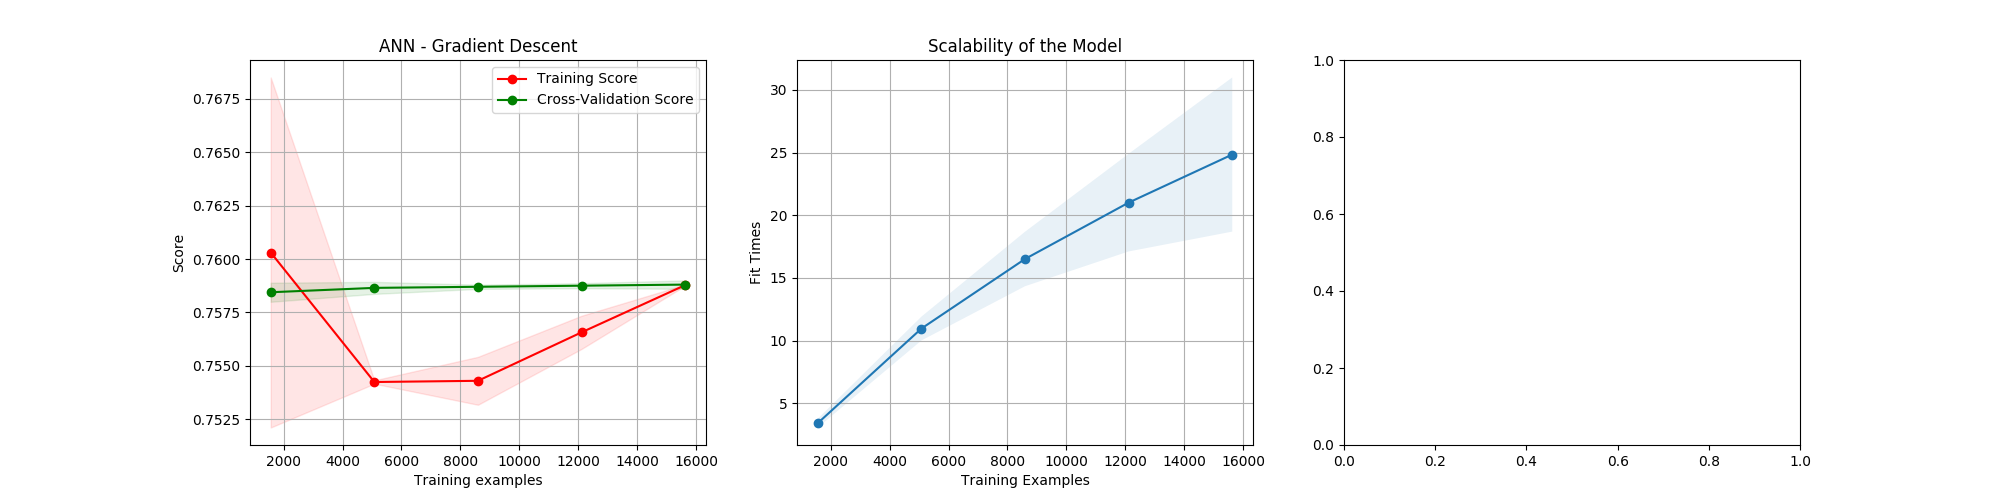
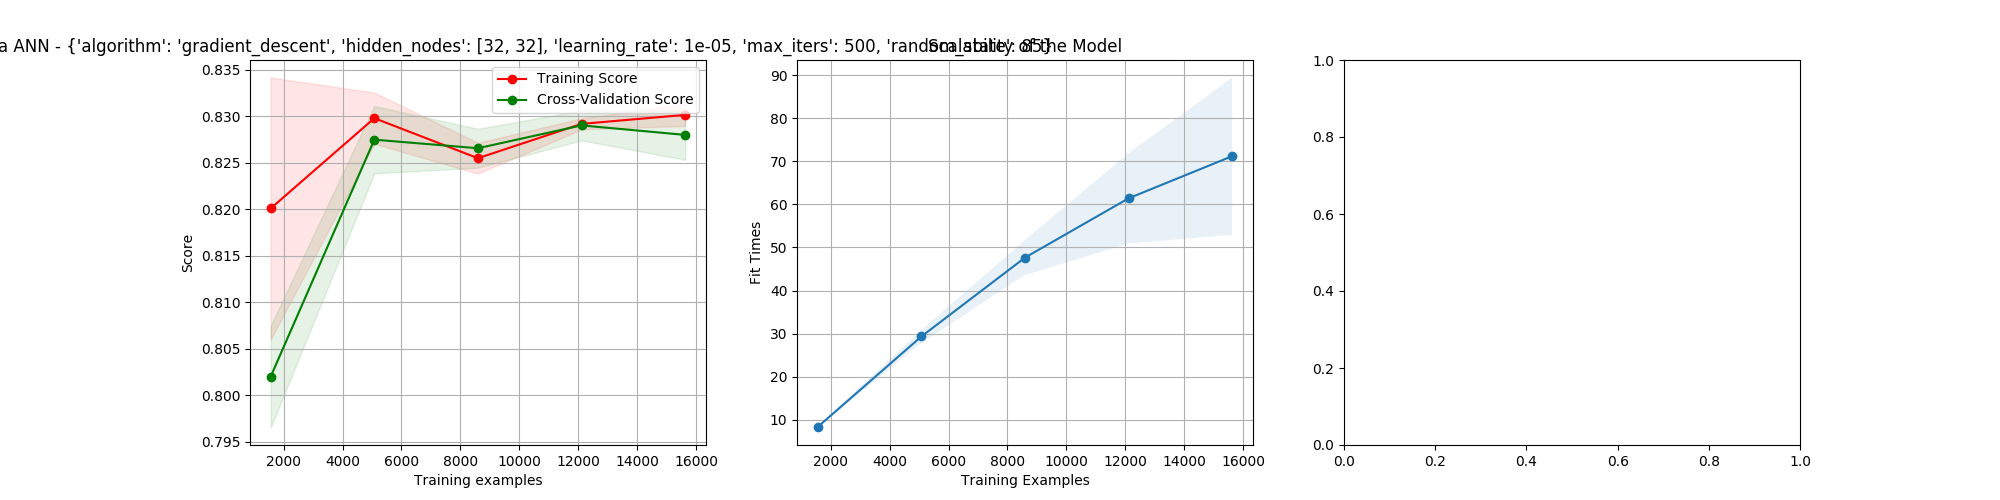
Started on some NN stuff, made TSP graph

diff --git a/Code/artificial_neural_network.py b/Code/artificial_neural_network.py
@@ -7,6 +7,8 @@ from sklearn.preprocessing import OneHotEncoder, MinMaxScaler
 from sklearn.metrics import accuracy_score
 import evaluate_model_learning_complexity
 from sklearn.model_selection import GridSearchCV
+from sklearn.metrics import plot_confusion_matrix, f1_score
+import matplotlib.pyplot as plt
 
 
 def main():
@@ -41,20 +43,16 @@ def ann_weights_genetic_alg():
 
     onehot = OneHotEncoder()
 
-    y_train_hot = onehot.fit_transform(y_train.reshape(-1, 1)).todense()
-    y_test_hot = onehot.fit_transform(y_test.reshape(-1, 1)).todense()
-
     parameters = [
         {'algorithm': ['genetic_alg'], 'hidden_nodes': [[32, 32]],
-         'max_iters': [100, 500, 1000],
-         'learning_rate': [0.5, 0.1, 0.01],
-         'pop_size': [50, 100, 200],
-         'mutation_prob': [0.1, 0.3]}
+         'max_iters': [200],
+         'pop_size': [50, 100], 'random_state':[85],
+         'mutation_prob': [0.1, 0.3], 'learning_rate': [0.00001]}
     ]
 
     grid_searcher = GridSearchCV(mlrose_hiive.NeuralNetwork(), parameters)
 
-    grid_searcher.fit(x_train_scaled, y_train_hot)
+    grid_searcher.fit(x_train_scaled, y_train)
 
     # form a 2d list of your data
     report = [["Parameters", "Mean Fit Time", "Std Dev Fit Time", "Split 0 Score", "Split 1 Score", "Split 2 Score",
@@ -83,8 +81,19 @@ def ann_weights_genetic_alg():
     # plot the learning curve
     title = "Census Data" + " ANN - " + str(grid_searcher.best_params_)
     figure = evaluate_model_learning_complexity.plot_learning_curve(grid_searcher.best_estimator_, title,
-                                                                    x_train, y_train)
+                                                                    x_train_scaled, y_train)
     figure.savefig("ANN_Genetic.png")
+
+    # plot a confusion matrix as well
+    plt.figure()
+    cm = plot_confusion_matrix(grid_searcher.best_estimator_, x_test_scaled, y_test, display_labels=['<=$50K', '>$50K'])
+    cm.plot()
+    plt.savefig("Confusion_Matrix_Genetic.png")
+
+    # append the F1 score to the output file as well
+    f1score = f1_score(y_test, grid_searcher.best_estimator_.predict(x_test_scaled))
+    with open('./ANN_Genetic_Alg.txt', 'a') as fileOut:
+        fileOut.write("F1 Score was: " + str(f1score))
 
 
 def ann_weights_simulate_annealing():
@@ -97,9 +106,6 @@ def ann_weights_simulate_annealing():
 
     onehot = OneHotEncoder()
 
-    y_train_hot = onehot.fit_transform(y_train.reshape(-1, 1)).todense()
-    y_test_hot = onehot.fit_transform(y_test.reshape(-1, 1)).todense()
-
     # for simulated annealing only, define some decay schedules
     annealing_sched_a = mlrose_hiive.GeomDecay(init_temp=1, decay=0.99, min_temp=0.001)
     annealing_sched_b = mlrose_hiive.GeomDecay(init_temp=1, decay=0.99, min_temp=0.1)
@@ -108,13 +114,13 @@ def ann_weights_simulate_annealing():
     parameters = [
         {'algorithm': ['simulated_annealing'], 'hidden_nodes': [[32, 32]],
          'max_iters': [200, 1000],
-         'learning_rate': [0.1, 0.01],
+         'learning_rate': [0.000001], 'random_state':[85],
          'schedule': [annealing_sched_a, annealing_sched_b, annealing_sched_c]}
     ]
 
     grid_searcher = GridSearchCV(mlrose_hiive.NeuralNetwork(), parameters)
 
-    grid_searcher.fit(x_train_scaled, y_train_hot)
+    grid_searcher.fit(x_train_scaled, y_train)
 
     # form a 2d list of your data
     report = [["Parameters", "Mean Fit Time", "Std Dev Fit Time", "Split 0 Score", "Split 1 Score", "Split 2 Score", "Split 3 Score", "Split 4 Score"]]
@@ -142,8 +148,19 @@ def ann_weights_simulate_annealing():
     # plot the learning curve
     title = "Census Data" + " ANN - " + str(grid_searcher.best_params_)
     figure = evaluate_model_learning_complexity.plot_learning_curve(grid_searcher.best_estimator_, title,
-                                                                    x_train, y_train)
+                                                                    x_train_scaled, y_train)
     figure.savefig("ANN_Simulated_Annealing.png")
+
+    # plot a confusion matrix as well
+    plt.figure()
+    cm = plot_confusion_matrix(grid_searcher.best_estimator_, x_test_scaled, y_test, display_labels=['<=$50K', '>$50K'])
+    cm.plot()
+    plt.savefig("Confusion_Matrix_Simulated_Annealing.png")
+
+    # append the F1 score to the output file as well
+    f1score = f1_score(y_test, grid_searcher.best_estimator_.predict(x_test_scaled))
+    with open('./ANN_Simulated_Annealing.txt', 'a') as fileOut:
+        fileOut.write("F1 Score was: " + str(f1score))
 
 
 def ann_weights_randomized_hillclimbing():
@@ -156,19 +173,15 @@ def ann_weights_randomized_hillclimbing():
 
     onehot = OneHotEncoder()
 
-    y_train_hot = onehot.fit_transform(y_train.reshape(-1, 1)).todense()
-    y_test_hot = onehot.fit_transform(y_test.reshape(-1, 1)).todense()
-
     parameters = [
         {'algorithm': ['random_hill_climb'], 'hidden_nodes': [[32, 32]],
-         'max_iters': [200, 1000],
-         'learning_rate': [0.1, 0.01],
-         'restarts': [10, 20]}
+         'max_iters': [200, 500], 'random_state':[85],
+         'restarts': [10, 20], 'learning_rate': [0.000001]}
     ]
 
     grid_searcher = GridSearchCV(mlrose_hiive.NeuralNetwork(), parameters)
 
-    grid_searcher.fit(x_train_scaled, y_train_hot)
+    grid_searcher.fit(x_train_scaled, y_train)
 
     # form a 2d list of your data
     report = [["Parameters", "Mean Fit Time", "Std Dev Fit Time", "Split 0 Score", "Split 1 Score", "Split 2 Score", "Split 3 Score", "Split 4 Score"]]
@@ -196,8 +209,19 @@ def ann_weights_randomized_hillclimbing():
     # plot the learning curve
     title = "Census Data" + " ANN - " + str(grid_searcher.best_params_)
     figure = evaluate_model_learning_complexity.plot_learning_curve(grid_searcher.best_estimator_, title,
-                                                                    x_train, y_train)
+                                                                    x_train_scaled, y_train)
     figure.savefig("ANN_Random_Hillclimbing.png")
+
+    # plot a confusion matrix as well
+    plt.figure()
+    cm = plot_confusion_matrix(grid_searcher.best_estimator_, x_test_scaled, y_test, display_labels=['<=$50K', '>$50K'])
+    cm.plot()
+    plt.savefig("Confusion_Matrix_RHC.png")
+
+    # append the F1 score to the output file as well
+    f1score = f1_score(y_test, grid_searcher.best_estimator_.predict(x_test_scaled))
+    with open('./ANN_Random_Hillclimbing.txt', 'a') as fileOut:
+        fileOut.write("F1 Score was: " + str(f1score))
 
 
 def ann_weights_gradient_descent():
@@ -215,13 +239,13 @@ def ann_weights_gradient_descent():
 
     parameters = [
         {'algorithm': ['gradient_descent'], 'hidden_nodes': [[32, 32]],
-         'max_iters': [200, 1000],
-         'learning_rate': [0.1, 0.01]}
+         'max_iters': [500], 'random_state':[85],
+         'learning_rate': [0.00001]}
     ]
 
     grid_searcher = GridSearchCV(mlrose_hiive.NeuralNetwork(), parameters)
 
-    grid_searcher.fit(x_train_scaled, y_train_hot)
+    grid_searcher.fit(x_train_scaled, y_train)
 
     # form a 2d list of your data
     report = [["Parameters", "Mean Fit Time", "Std Dev Fit Time", "Split 0 Score", "Split 1 Score", "Split 2 Score", "Split 3 Score", "Split 4 Score"]]
@@ -249,17 +273,28 @@ def ann_weights_gradient_descent():
     # plot the learning curve
     title = "Census Data" + " ANN - " + str(grid_searcher.best_params_)
     figure = evaluate_model_learning_complexity.plot_learning_curve(grid_searcher.best_estimator_, title,
-                                                                    x_train, y_train)
+                                                                    x_train_scaled, y_train)
     figure.savefig("ANN_Gradient_Descent.png")
+
+    # plot a confusion matrix as well
+    plt.figure()
+    cm = plot_confusion_matrix(grid_searcher.best_estimator_, x_test_scaled, y_test, display_labels=['<=$50K', '>$50K'])
+    cm.plot()
+    plt.savefig("Confusion_Matrix_Gradient_Descent.png")
+
+    # append the F1 score to the output file as well
+    f1score = f1_score(y_test, grid_searcher.best_estimator_.predict(x_test_scaled))
+    with open('./Gradient_Descent.txt', 'a') as fileOut:
+        fileOut.write("F1 Score was: " + str(f1score))
 
 
 if __name__ == '__main__':
     print("Starting simulated annealing")
     ann_weights_simulate_annealing()
     print("Starting genetic algorithm")
-    ann_weights_genetic_alg()
+    # ann_weights_genetic_alg()
     print("Starting random hillclimbing")
     ann_weights_randomized_hillclimbing()
     print("Starting gradient descent")
-    ann_weights_gradient_descent()
+    # ann_weights_gradient_descent()
     # main()

diff --git a/Code/ann_evaluation.py b/Code/ann_evaluation.py
@@ -1,0 +1,42 @@
+import numpy as np
+import mlrose_hiive
+import pandas as pd
+import process_dataset
+from sklearn.model_selection import train_test_split
+from sklearn.preprocessing import OneHotEncoder, MinMaxScaler
+from sklearn.metrics import accuracy_score
+import evaluate_model_learning_complexity
+from sklearn.model_selection import GridSearchCV
+import matplotlib.pyplot as plt
+
+
+def gradient_descent_benchmark():
+    x_data, y_data = process_dataset.process_census_data()
+    x_train, x_test, y_train, y_test = train_test_split(x_data, y_data, train_size=0.6, random_state=86)
+
+    scaler = MinMaxScaler()
+    x_train_scaled = scaler.fit_transform(x_train)
+    x_test_scaled = scaler.fit_transform(x_test)
+
+    ann = mlrose_hiive.NeuralNetwork(hidden_nodes=[32, 32], activation='relu', algorithm='gradient_descent',
+                                     max_iters=1000, bias=True, is_classifier=True, learning_rate=0.00001,
+                                     max_attempts=200, early_stopping=True, curve=True, random_state=1)
+
+    ann.fit(x_train_scaled, y_train)
+
+    # predictions = ann.predict(x_test_scaled)
+    score = accuracy_score(y_test, ann.predict(x_test_scaled))
+    print("accuracy was: " + str(score))
+
+    # figure = evaluate_model_learning_complexity.plot_learning_curve(ann, "DONOTUSE.png", x_train_scaled, y_train_hot)
+    # figure.savefig("ANN_Gradient_Descent.png")
+
+    plt.figure()
+    plt.plot(ann.fitness_curve)
+    plt.show()
+
+
+
+
+if __name__ == '__main__':
+    gradient_descent_benchmark()

diff --git a/Code/tsp_analysis.py b/Code/tsp_analysis.py
@@ -1,0 +1,41 @@
+import mlrose_hiive
+import numpy as np
+import matplotlib.pyplot as plt
+from sympy.utilities.iterables import multiset_permutations
+
+
+def create_tsp_problem(length=10, width=10, cities=8):
+    coords_list = []
+    np.random.seed(786)
+
+    for city in range(0, cities):
+        new_city = (np.random.randint(0, length), np.random.randint(0, width))
+        if new_city not in coords_list:
+            coords_list.append(new_city)
+
+    tsp_coords = mlrose_hiive.fitness.TravellingSales(coords=coords_list)
+    tsp_problem = mlrose_hiive.TSPOpt(length=cities, fitness_fn=tsp_coords, maximize=True)
+    return tsp_problem
+
+
+def main():
+    length = 5
+    tsp = create_tsp_problem(100, 100, length)
+    cities = [a for a in range(length)]
+    permutations = [p for p in multiset_permutations(cities)]
+
+    print(permutations)
+
+    fitness = []
+    for p in permutations:
+        fitness.append(tsp.eval_fitness(p))
+
+    plt.bar([a for a in range(len(fitness))], fitness)
+    plt.xlabel("Permutation")
+    plt.ylabel("Euclidean Distance Travelled")
+    plt.title("Distance of all Permutations of a TSP")
+    plt.savefig("tsp_all_permutations.png")
+
+
+if __name__ == '__main__':
+    main()

diff --git a/Code/travelling_salesman.py b/Code/travelling_salesman.py
@@ -135,4 +135,6 @@ def main_5_cities():
 
 
 if __name__ == '__main__':
-    main_5_cities()
+    tsp = create_tsp_problem()
+    plot_tsp_grid(tsp)
+    # main_5_cities()
